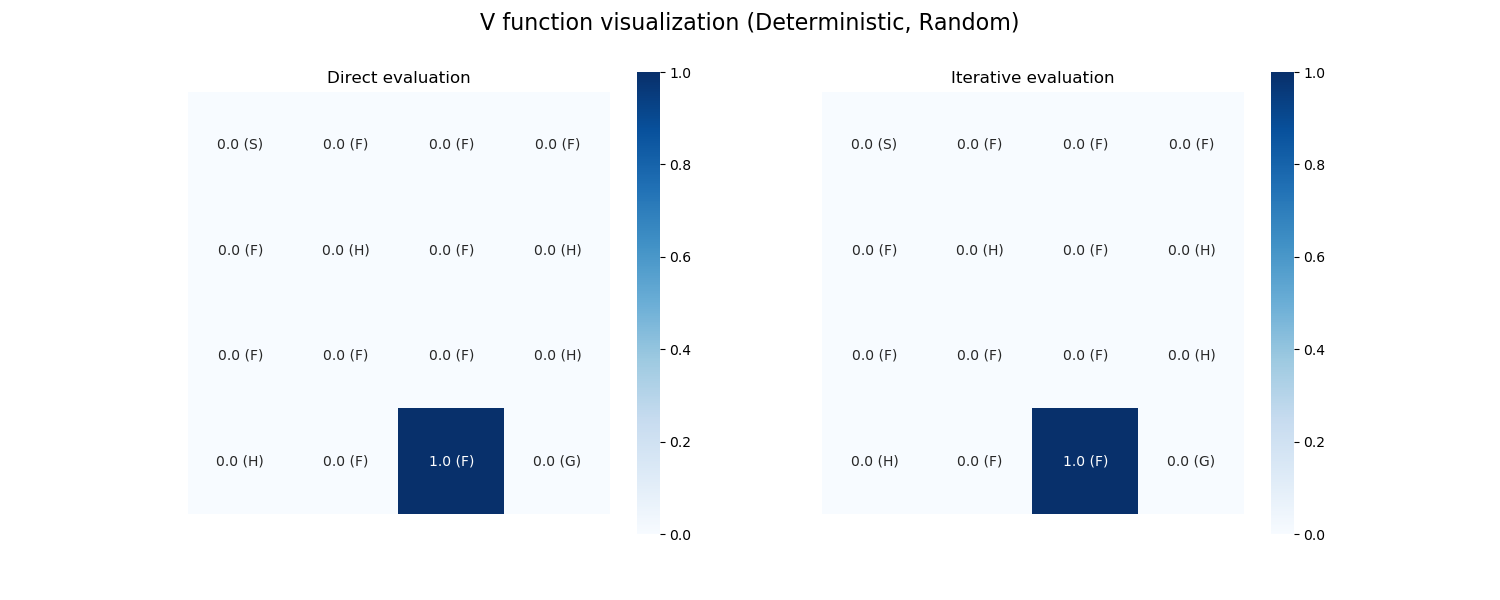
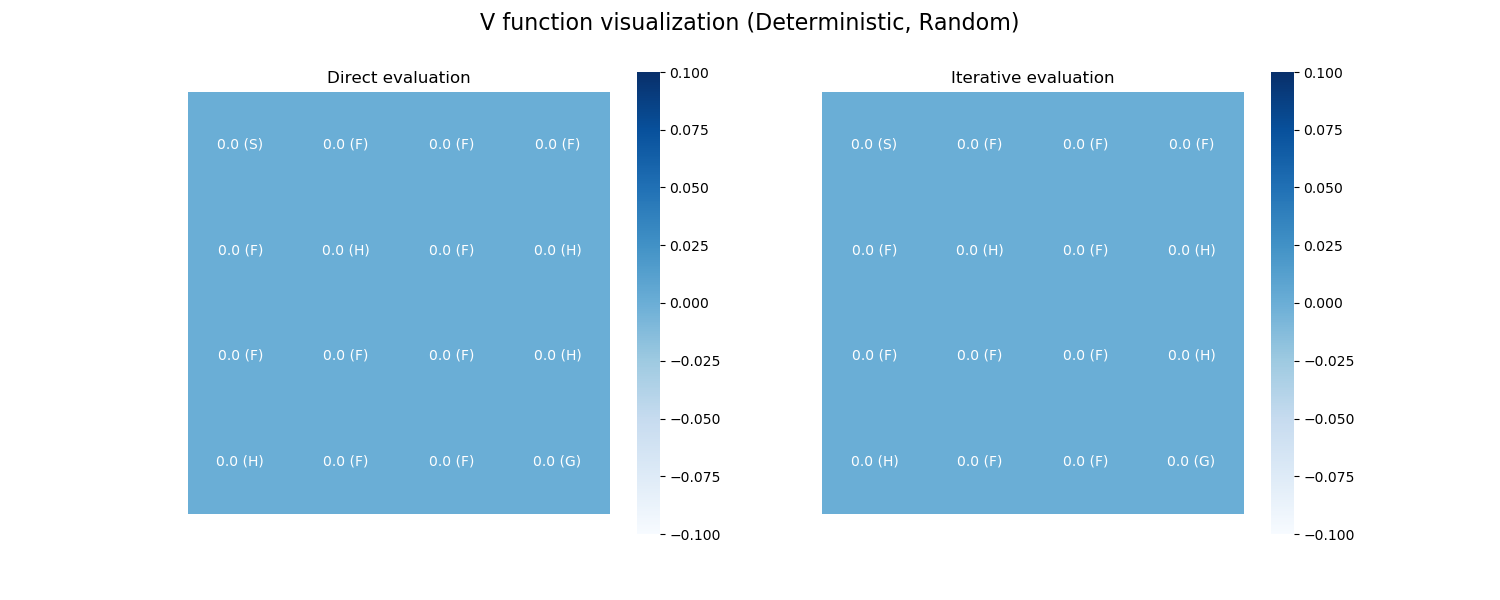
keep safe

diff --git a/RL/2/main.py b/RL/2/main.py
@@ -103,4 +103,4 @@ class FrozenLakeSolver:
                 break
 
 
-solver = FrozenLakeSolver(env_type=EnvType.Stochastic, policy_init=PolicyInit.Random, gamma=0.99, eps=0.00001)
+solver = FrozenLakeSolver(env_type=EnvType.Deterministic, policy_init=PolicyInit.Random, gamma=0.99, eps=0.00001)
